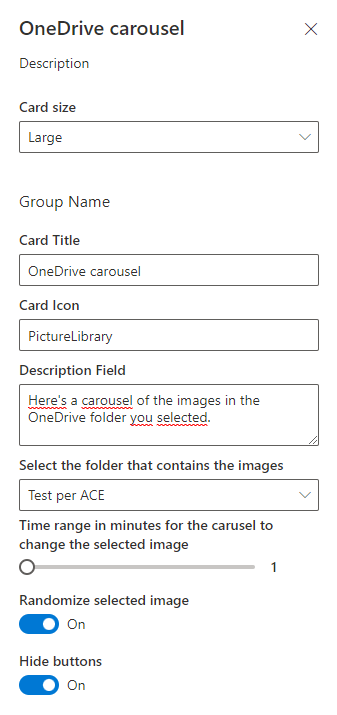
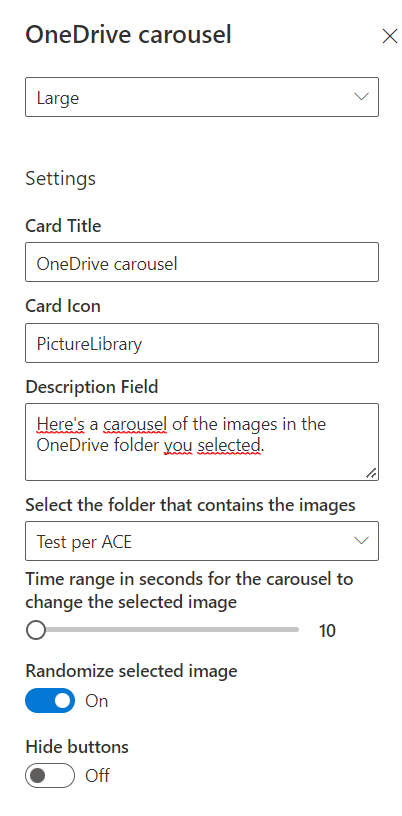
Fixes

diff --git a/samples/ImageCard-OneDriveCarousel/src/adaptiveCardExtensions/oneDriveCarousel/OneDriveCarouselAdaptiveCardExtension.ts b/samples/ImageCard-OneDriveCarousel/src/adaptiveCardExtensions/oneDriveCarousel/OneDriveCarouselAdaptiveCardExtension.ts
@@ -12,7 +12,7 @@ export interface IOneDriveCarouselAdaptiveCardExtensionProps {
   description: string;
   iconProperty: string;
   selectedDriveId: string;
-  timerMinutes: number;
+  timerSeconds: number;
   randomizeImage: boolean;
   hideButtons: boolean;
 }
@@ -24,6 +24,8 @@ export interface IOneDriveCarouselAdaptiveCardExtensionState {
   itemIndex: number;
   targetFolder: MicrosoftGraph.DriveItem;
   error: object;
+  isLoading: boolean;
+  folderHasImages: boolean;
 }
 
 const CARD_VIEW_REGISTRY_ID: string = 'OneDriveCarousel_CARD_VIEW';
@@ -35,6 +37,7 @@ export default class OneDriveCarouselAdaptiveCardExtension extends BaseAdaptiveC
 > {
   private _deferredPropertyPane: OneDriveCarouselPropertyPane | undefined;
   private updateImageTimer;
+  private graphClient: MSGraphClient;
 
   public onInit(): Promise<void> {
     this.state = {
@@ -43,15 +46,19 @@ export default class OneDriveCarouselAdaptiveCardExtension extends BaseAdaptiveC
       drivesResults: undefined,
       itemIndex: 0,
       targetFolder: undefined,
-      error: undefined
+      error: undefined,
+      isLoading: true,
+      folderHasImages: false
     };
 
     this.cardNavigator.register(CARD_VIEW_REGISTRY_ID, () => new CardView());
     this.quickViewNavigator.register(QUICK_VIEW_REGISTRY_ID, () => new QuickView());
 
-    // Get the first drive as root and load the children for the dropdown control
-    this.context.msGraphClientFactory.getClient().then((client: MSGraphClient): void => {
-      client
+    setTimeout(async () => {
+      this.graphClient = await this.context.msGraphClientFactory.getClient();      
+      // Get the first drive as root and load the children for the dropdown control
+      
+      this.graphClient
       .api(`/${gu.path_me}/${gu.path_drives}`)
       .select(`${gu.prop_id},${gu.prop_name}`)
       .get((error, drives) => {
@@ -64,17 +71,24 @@ export default class OneDriveCarouselAdaptiveCardExtension extends BaseAdaptiveC
           rootDriveId: (drives && drives.value && drives.value.length > 0) ? drives.value[0].id : undefined
         });
         
-        this.loadDrives();
+        if(this.state.rootDriveId) {
+          this.loadDrives();
 
-        if (this.properties.selectedDriveId) {
-          this.loadTargetDriveItems();
+          if (this.properties.selectedDriveId) {
+            this.loadTargetDriveItems();
 
-          if (this.properties.timerMinutes) {
-            this.updateImageTimer = setInterval(this.updateImageIndex, (this.properties.timerMinutes * 60 * 1000));
+            if (this.properties.timerSeconds) {
+              this.updateImageTimer = setInterval(this.updateImageIndex, (this.properties.timerSeconds * 1000));
+            }
           }
         }
+        else {
+          this.setState({
+            isLoading: false
+          });
+        }
       });
-    });
+    }, 500);
 
     return Promise.resolve();
   }
@@ -107,9 +121,9 @@ export default class OneDriveCarouselAdaptiveCardExtension extends BaseAdaptiveC
     if (propertyPath == "selectedDriveId") {
       this.loadTargetDriveItems();
     }
-    else if (propertyPath == "timerMinutes") {
+    else if (propertyPath == "timerSeconds") {
       clearInterval(this.updateImageTimer);
-      this.updateImageTimer = setInterval(this.updateImageIndex, (this.properties.timerMinutes * 60 * 1000));
+      this.updateImageTimer = setInterval(this.updateImageIndex, (this.properties.timerSeconds * 1000));
     }
   }
 
@@ -117,13 +131,12 @@ export default class OneDriveCarouselAdaptiveCardExtension extends BaseAdaptiveC
     return CARD_VIEW_REGISTRY_ID;
   }
 
-  protected getPropertyPaneConfiguration(): IPropertyPaneConfiguration {    
+  protected getPropertyPaneConfiguration(): IPropertyPaneConfiguration {
     return this._deferredPropertyPane!.getPropertyPaneConfiguration(this.state.drivesResults);
   }
 
   private loadDrives = async (): Promise<void> => {
-    var graphClient: MSGraphClient = await this.context.msGraphClientFactory.getClient();
-    await graphClient.api(`/${gu.path_me}/${gu.path_drives}/${this.state.rootDriveId}/${gu.path_root}/${gu.path_children}`)
+    await this.graphClient.api(`/${gu.path_me}/${gu.path_drives}/${this.state.rootDriveId}/${gu.path_root}/${gu.path_children}`)
           .select(`${gu.prop_id},${gu.prop_name}`)
           .get((error, drives) => {
             if (error) {
@@ -138,25 +151,28 @@ export default class OneDriveCarouselAdaptiveCardExtension extends BaseAdaptiveC
   }
 
   private loadTargetDriveItems = () => {
-    this.context.msGraphClientFactory.getClient().then((client: MSGraphClient): void => {
-      client.api(`/${gu.path_me}/${gu.path_drives}/${this.state.rootDriveId}/${gu.path_items}/${this.properties.selectedDriveId}`)
-        .expand(gu.path_children)
-        .get((error, targetFolder: MicrosoftGraph.DriveItem) => {          
-          if (error) {
-            this.setError(error);
-            return;
-          }
-
-          if(targetFolder && targetFolder.children) {
-            // Remove the non image children
-            targetFolder.children = targetFolder.children.filter(c => c.image);
-          }
-
-          this.setState({
-            targetFolder: targetFolder
-          });
-        });
+    this.setState({
+      isLoading: true
     });
+    this.graphClient.api(`/${gu.path_me}/${gu.path_drives}/${this.state.rootDriveId}/${gu.path_items}/${this.properties.selectedDriveId}`)
+      .expand(gu.path_children)
+      .get((error, targetFolder: MicrosoftGraph.DriveItem) => {          
+        if (error) {
+          this.setError(error);
+          return;
+        }
+
+        if(targetFolder && targetFolder.children) {
+          // Remove the non image children
+          targetFolder.children = targetFolder.children.filter(c => c.image);
+        }
+
+        this.setState({
+          targetFolder: targetFolder,
+          folderHasImages: targetFolder.children && targetFolder.children.length > 0,
+          isLoading: false
+        });
+      });
   }
 
   private updateImageIndex = () => {
@@ -194,7 +210,8 @@ export default class OneDriveCarouselAdaptiveCardExtension extends BaseAdaptiveC
 
   private setError = (error: object) => {
     this.setState({
-      error: error
+      error: error,
+      isLoading: false
     });
 
     console.log(error);

diff --git a/samples/ImageCard-OneDriveCarousel/src/adaptiveCardExtensions/oneDriveCarousel/cardView/CardView.ts b/samples/ImageCard-OneDriveCarousel/src/adaptiveCardExtensions/oneDriveCarousel/cardView/CardView.ts
@@ -16,7 +16,7 @@ export class CardView extends BaseImageCardView<IOneDriveCarouselAdaptiveCardExt
   public get cardButtons():[ICardButton] | [ICardButton, ICardButton] | undefined {
     var buttons = [];
     
-    if(!this.state.error && 
+    if(!this.state.error && !this.state.isLoading && this.state.folderHasImages && 
       (this.properties.hideButtons == undefined || this.properties.hideButtons == false) &&
        this.state.targetFolder != undefined) {
       buttons = [
@@ -64,13 +64,20 @@ export class CardView extends BaseImageCardView<IOneDriveCarouselAdaptiveCardExt
       return require('../assets/Error.png');
     }
     
-    let imageUrl: string = require('../assets/MicrosoftLogo.png');
-    
-    if (this.state.targetFolder && this.state.targetFolder.children && this.state.targetFolder.children.length > 0) {
-      imageUrl = this.state.targetFolder.children[this.state.itemIndex].webUrl;
+    // If not loading
+    if(this.state.isLoading == false) {
+      // If there is an image set the image webUrl
+      if (this.state.targetFolder && this.state.targetFolder.children && this.state.targetFolder.children.length > 0) {
+        return this.state.targetFolder.children[this.state.itemIndex].webUrl;
+      }
+      
+      // If there are no images in the target folder set a default image
+      if(this.state.folderHasImages == false) {
+        return require("../assets/MicrosoftLogo.png");
+      }
     }
 
-    return imageUrl;
+    return require("../assets/loading.svg");
   }
 
   public get onCardSelection(): IQuickViewCardAction | IExternalLinkCardAction | undefined {

diff --git a/samples/ImageCard-OneDriveCarousel/src/adaptiveCardExtensions/oneDriveCarousel/quickView/QuickView.ts b/samples/ImageCard-OneDriveCarousel/src/adaptiveCardExtensions/oneDriveCarousel/quickView/QuickView.ts
@@ -9,6 +9,8 @@ export interface IQuickViewData {
   sizeLabel: string;
   modifiedLabel: string;
   currentItem: MicrosoftGraph.DriveItem;
+  hasImage: boolean;
+  hasDateTime: boolean;
 }
 
 export class QuickView extends BaseAdaptiveCardView<
@@ -17,12 +19,16 @@ export class QuickView extends BaseAdaptiveCardView<
   IQuickViewData
 > {
   public get data(): IQuickViewData {
+    var currentItem = (this.state.targetFolder && this.state.targetFolder.children) ? this.state.targetFolder.children[this.state.itemIndex] : undefined;
+
     return {
       detailsLabel: strings.DetailsLabel,
       fileNameLabel: strings.FileNameLabel,
       sizeLabel: strings.SizeLabel,
       modifiedLabel: strings.ModifiedLabel,
-      currentItem: (this.state.targetFolder && this.state.targetFolder.children) ? this.state.targetFolder.children[this.state.itemIndex] : undefined
+      currentItem: currentItem,
+      hasImage: (currentItem && currentItem.image != undefined && currentItem.image.width != undefined && currentItem.image.height != undefined),
+      hasDateTime: (currentItem && currentItem.lastModifiedDateTime != undefined)
     };
   }
 

diff --git a/samples/ImageCard-OneDriveCarousel/src/adaptiveCardExtensions/oneDriveCarousel/loc/en-us.js b/samples/ImageCard-OneDriveCarousel/src/adaptiveCardExtensions/oneDriveCarousel/loc/en-us.js
@@ -9,10 +9,10 @@ define([], function() {
     "SubTitle": "Quick View",
     "Description": "Create your SPFx Adaptive Card Extension solution!",
     "PrimaryText": "SPFx Adaptive Card Extension",
-    "QuickViewButton": "Infos",
+    "QuickViewButton": "Info",
     "ErrorMessage": "An error occurred, please try again.",
     "SelectedDriveIdDropdownLabel": "Select the folder that contains the images",
-    "TimerMinutesSliderLabel": "Time range in minutes for the carousel to change the selected image",
+    "TimerSliderLabel": "Time range in seconds for the carousel to change the selected image",
     "DetailsLabel": "Details",
     "FileNameLabel": "File name",
     "SizeLabel": "Size",

diff --git a/samples/ImageCard-OneDriveCarousel/src/adaptiveCardExtensions/oneDriveCarousel/OneDriveCarouselPropertyPane.ts b/samples/ImageCard-OneDriveCarousel/src/adaptiveCardExtensions/oneDriveCarousel/OneDriveCarouselPropertyPane.ts
@@ -25,10 +25,10 @@ export class OneDriveCarouselPropertyPane {
                   label: strings.SelectedDriveIdDropdownLabel,
                   options: drivesResults,
                 }),
-                PropertyPaneSlider("timerMinutes", {
-                  label: strings.TimerMinutesSliderLabel,
+                PropertyPaneSlider("timerSeconds", {
+                  label: strings.TimerSliderLabel,
                   min: 1,
-                  max: 60,
+                  max: 3600,
                   step: 1
                 }),
                 PropertyPaneToggle("randomizeImage", {

diff --git a/samples/ImageCard-OneDriveCarousel/src/adaptiveCardExtensions/oneDriveCarousel/loc/mystring.d.ts b/samples/ImageCard-OneDriveCarousel/src/adaptiveCardExtensions/oneDriveCarousel/loc/mystring.d.ts
@@ -11,7 +11,7 @@ declare interface IOneDriveCarouselAdaptiveCardExtensionStrings {
   QuickViewButton: string;
   ErrorMessage: string;
   SelectedDriveIdDropdownLabel: string;
-  TimerMinutesSliderLabel: string;
+  TimerSliderLabel: string;
   DetailsLabel: string;
   FileNameLabel: string;
   SizeLabel: string;

diff --git a/samples/ImageCard-OneDriveCarousel/README.md b/samples/ImageCard-OneDriveCarousel/README.md
@@ -74,7 +74,7 @@ Version|Date|Comments
 
 ## Features
 
-Viva Connection Adaptive Card Extension (ACE) that shows an auto updating carousel of the images placed inside a OneDrive folder. It is possible to set a time range (in minutes) to specify the timing for the updates and is also possible to randomize the selected image.
+Viva Connection Adaptive Card Extension (ACE) that shows an auto updating carousel of the images placed inside a OneDrive folder. It is possible to set a time range (in seconds) to specify the timing for the updates and is also possible to randomize the selected image.
 When clicked it opens up the selected OneDrive folder if specified, otherwise it opens the base OneDrive url.
 
 ## References
